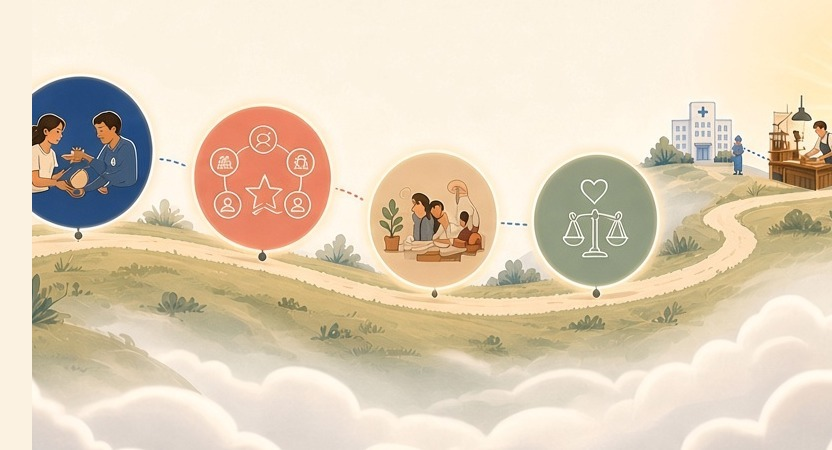
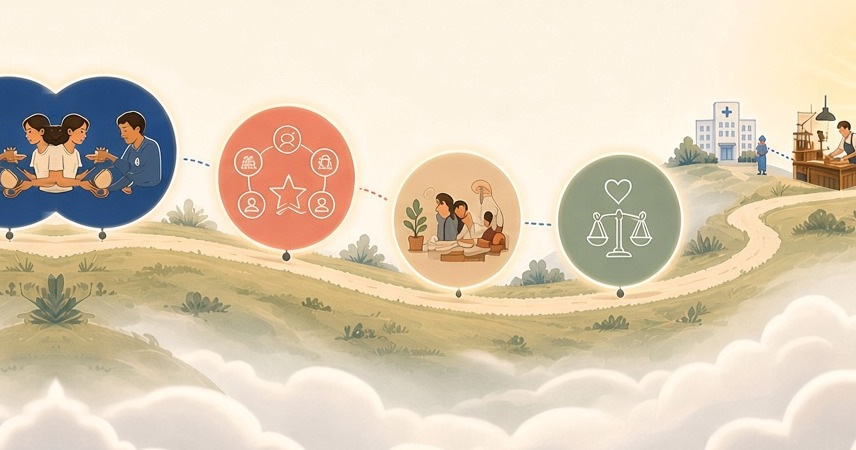
Outpaint DNA step art left edge; soft mask and r9 step-2 checks.

diff --git a/Jobsy.Web/wwwroot/css/features/candidate-illustrated-public.css b/Jobsy.Web/wwwroot/css/features/candidate-illustrated-public.css
@@ -510,9 +510,13 @@
     background-color: var(--surface);
     background-size: contain;
     background-repeat: no-repeat;
-    background-position: center top;
-    -webkit-mask-image: linear-gradient(180deg, #000 0%, #000 86%, transparent 100%);
-    mask-image: linear-gradient(180deg, #000 0%, #000 86%, transparent 100%);
+    background-position: 54% top;
+    -webkit-mask-image: linear-gradient(90deg, transparent 0%, #000 18%, #000 100%),
+      linear-gradient(180deg, #000 0%, #000 86%, transparent 100%);
+    mask-image: linear-gradient(90deg, transparent 0%, #000 18%, #000 100%),
+      linear-gradient(180deg, #000 0%, #000 86%, transparent 100%);
+    -webkit-mask-composite: source-in;
+    mask-composite: intersect;
   }
 
   .pub-theme .pub-landing__steps-grid {

diff --git a/Jobsy.Tests/HomeLogoFadeScreenshotTests.cs b/Jobsy.Tests/HomeLogoFadeScreenshotTests.cs
@@ -51,6 +51,50 @@ public sealed class HomeLogoFadeScreenshotTests : IAsyncLifetime
     }
 
     [Fact]
+    public async Task Capture_home_logo_and_illustration_fades_r9()
+    {
+        Directory.CreateDirectory(OutDir);
+
+        foreach (var (w, h, slug, mobile) in new (int W, int H, string Slug, bool Mobile)[]
+                 {
+                     (1920, 900, "1920", false),
+                     (1440, 900, "1440", false),
+                     (1024, 768, "1024", false),
+                     (390, 844, "390", true),
+                 })
+        {
+            await CaptureFullPageAsync(w, h, $"full-{slug}-r9", mobile);
+            await CaptureCropAsync(w, h, ".pub-header__brand", $"crop-header-logo-{slug}-r9", mobile);
+            await CaptureCropAsync(w, h, "#top.pub-landing__hero", $"crop-hero-edges-{slug}-r9", mobile);
+            for (var i = 0; i < 3; i++)
+            {
+                await CaptureCropAsync(w, h, $".pub-landing__step-art--{i + 1}", $"crop-step-art-{i + 1}-{slug}-r9", mobile, scroll: true);
+            }
+
+            if (!mobile)
+            {
+                await CaptureHeroEdgeZoomAsync(w, h, slug, "left", "r9");
+                await CaptureHeroEdgeZoomAsync(w, h, slug, "right", "r9");
+                await CaptureHeroBottomZoomAsync(w, h, slug, "r9");
+                if (slug is "1920" or "1440")
+                {
+                    await AssertHeroSideSeamColorDeltaAsync(w, h, slug);
+                }
+
+                await AssertHeroCreamColumnsSmoothOnFullPageAsync(w, h, slug);
+            }
+
+            await AssertHeroCtasReceiveClicksAsync(w, h, mobile);
+        }
+
+        await CaptureCropAsync(390, 844, ".pub-landing__hero-art-band", "crop-hero-mob-art-390-r9", mobile: true);
+        await AssertStep2DnaCirclesMarginAsync(390, 844);
+
+        var logoHeight = await MeasureLogoHeightAsync(1024, 768);
+        Assert.InRange(logoHeight, 34, 42);
+    }
+
+    [Fact]
     public async Task Capture_home_logo_and_illustration_fades_r8()
     {
         Directory.CreateDirectory(OutDir);
@@ -462,16 +506,22 @@ public sealed class HomeLogoFadeScreenshotTests : IAsyncLifetime
         Assert.True(minBlueX >= 8, $"Left DNA circle margin {minBlueX}px is below 8px.");
         Assert.True(maxBlueX <= image.Width - 9, $"Right DNA circle margin {image.Width - maxBlueX}px is below 8px.");
 
-        var leftEdgeBlueSpan = 0;
-        for (var y = 0; y < image.Height; y++)
+        var maxLeftColumnBlueSpan = 0;
+        for (var x = 0; x < image.Width / 3; x++)
         {
-            if (IsDnaCirclePixel(image[minBlueX, y]))
+            var span = 0;
+            for (var y = 0; y < image.Height; y++)
             {
-                leftEdgeBlueSpan++;
+                if (IsDnaCirclePixel(image[x, y]))
+                {
+                    span++;
+                }
             }
+
+            maxLeftColumnBlueSpan = Math.Max(maxLeftColumnBlueSpan, span);
         }
 
-        Assert.True(leftEdgeBlueSpan >= 18, $"Left circle outline too thin ({leftEdgeBlueSpan}px at x={minBlueX}).");
+        Assert.True(maxLeftColumnBlueSpan >= 18, $"Left circle column span too thin ({maxLeftColumnBlueSpan}px).");
 
         var leftQuarterBlue = 0;
         for (var y = (int)(image.Height * 0.12); y < (int)(image.Height * 0.5); y++)
@@ -486,6 +536,44 @@ public sealed class HomeLogoFadeScreenshotTests : IAsyncLifetime
         }
 
         Assert.True(leftQuarterBlue >= 24, $"Leftmost circle not fully in frame (hits={leftQuarterBlue}).");
+
+        AssertStep2NoHardVerticalLeftEdge(image);
+    }
+
+    private static void AssertStep2NoHardVerticalLeftEdge(Image<Rgb24> image)
+    {
+        var y0 = (int)(image.Height * 0.06);
+        var y1 = (int)(image.Height * 0.58);
+        for (var x = 4; x <= Math.Min(28, image.Width / 4); x++)
+        {
+            var (lr, lg, lb) = MeanColumnRgb(image, x - 1, y0, y1);
+            var (rr, rg, rb) = MeanColumnRgb(image, x, y0, y1);
+            if (IsDnaCirclePixel(new Rgb24(lr, lg, lb)) || IsDnaCirclePixel(new Rgb24(rr, rg, rb)))
+            {
+                continue;
+            }
+
+            var maxStep = Math.Max(Math.Abs(lr - rr), Math.Max(Math.Abs(lg - rg), Math.Abs(lb - rb)));
+            Assert.True(maxStep < 22, $"Hard vertical edge at x≈{x} (Δ={maxStep}, L=({lr},{lg},{lb}) R=({rr},{rg},{rb})).");
+        }
+    }
+
+    private static (byte R, byte G, byte B) MeanColumnRgb(Image<Rgb24> image, int x, int y0, int y1)
+    {
+        x = Math.Clamp(x, 0, image.Width - 1);
+        y0 = Math.Clamp(y0, 0, image.Height - 1);
+        y1 = Math.Clamp(y1, y0 + 1, image.Height);
+        long r = 0, g = 0, b = 0, n = 0;
+        for (var y = y0; y < y1; y++)
+        {
+            var p = image[x, y];
+            r += p.R;
+            g += p.G;
+            b += p.B;
+            n++;
+        }
+
+        return ((byte)(r / n), (byte)(g / n), (byte)(b / n));
     }
 
     private static bool IsDnaCirclePixel(Rgb24 p) =>

diff --git a/Jobsy.Web/Media/CandidateIllustratedImages.cs b/Jobsy.Web/Media/CandidateIllustratedImages.cs
@@ -3,7 +3,7 @@ namespace Jobsy.Web.Media;
 /// <summary>Versioned URLs for candidate-facing illustrated pages (login, start, kompas, banenkaart).</summary>
 public static class CandidateIllustratedImages
 {
-    public const string Version = "20261019-06";
+    public const string Version = "20261019-07";
     private const string Base = $"/images/candidate-illustrated";
 
     public static string Url(string file) => $"{Base}/{file}?v={Version}";
